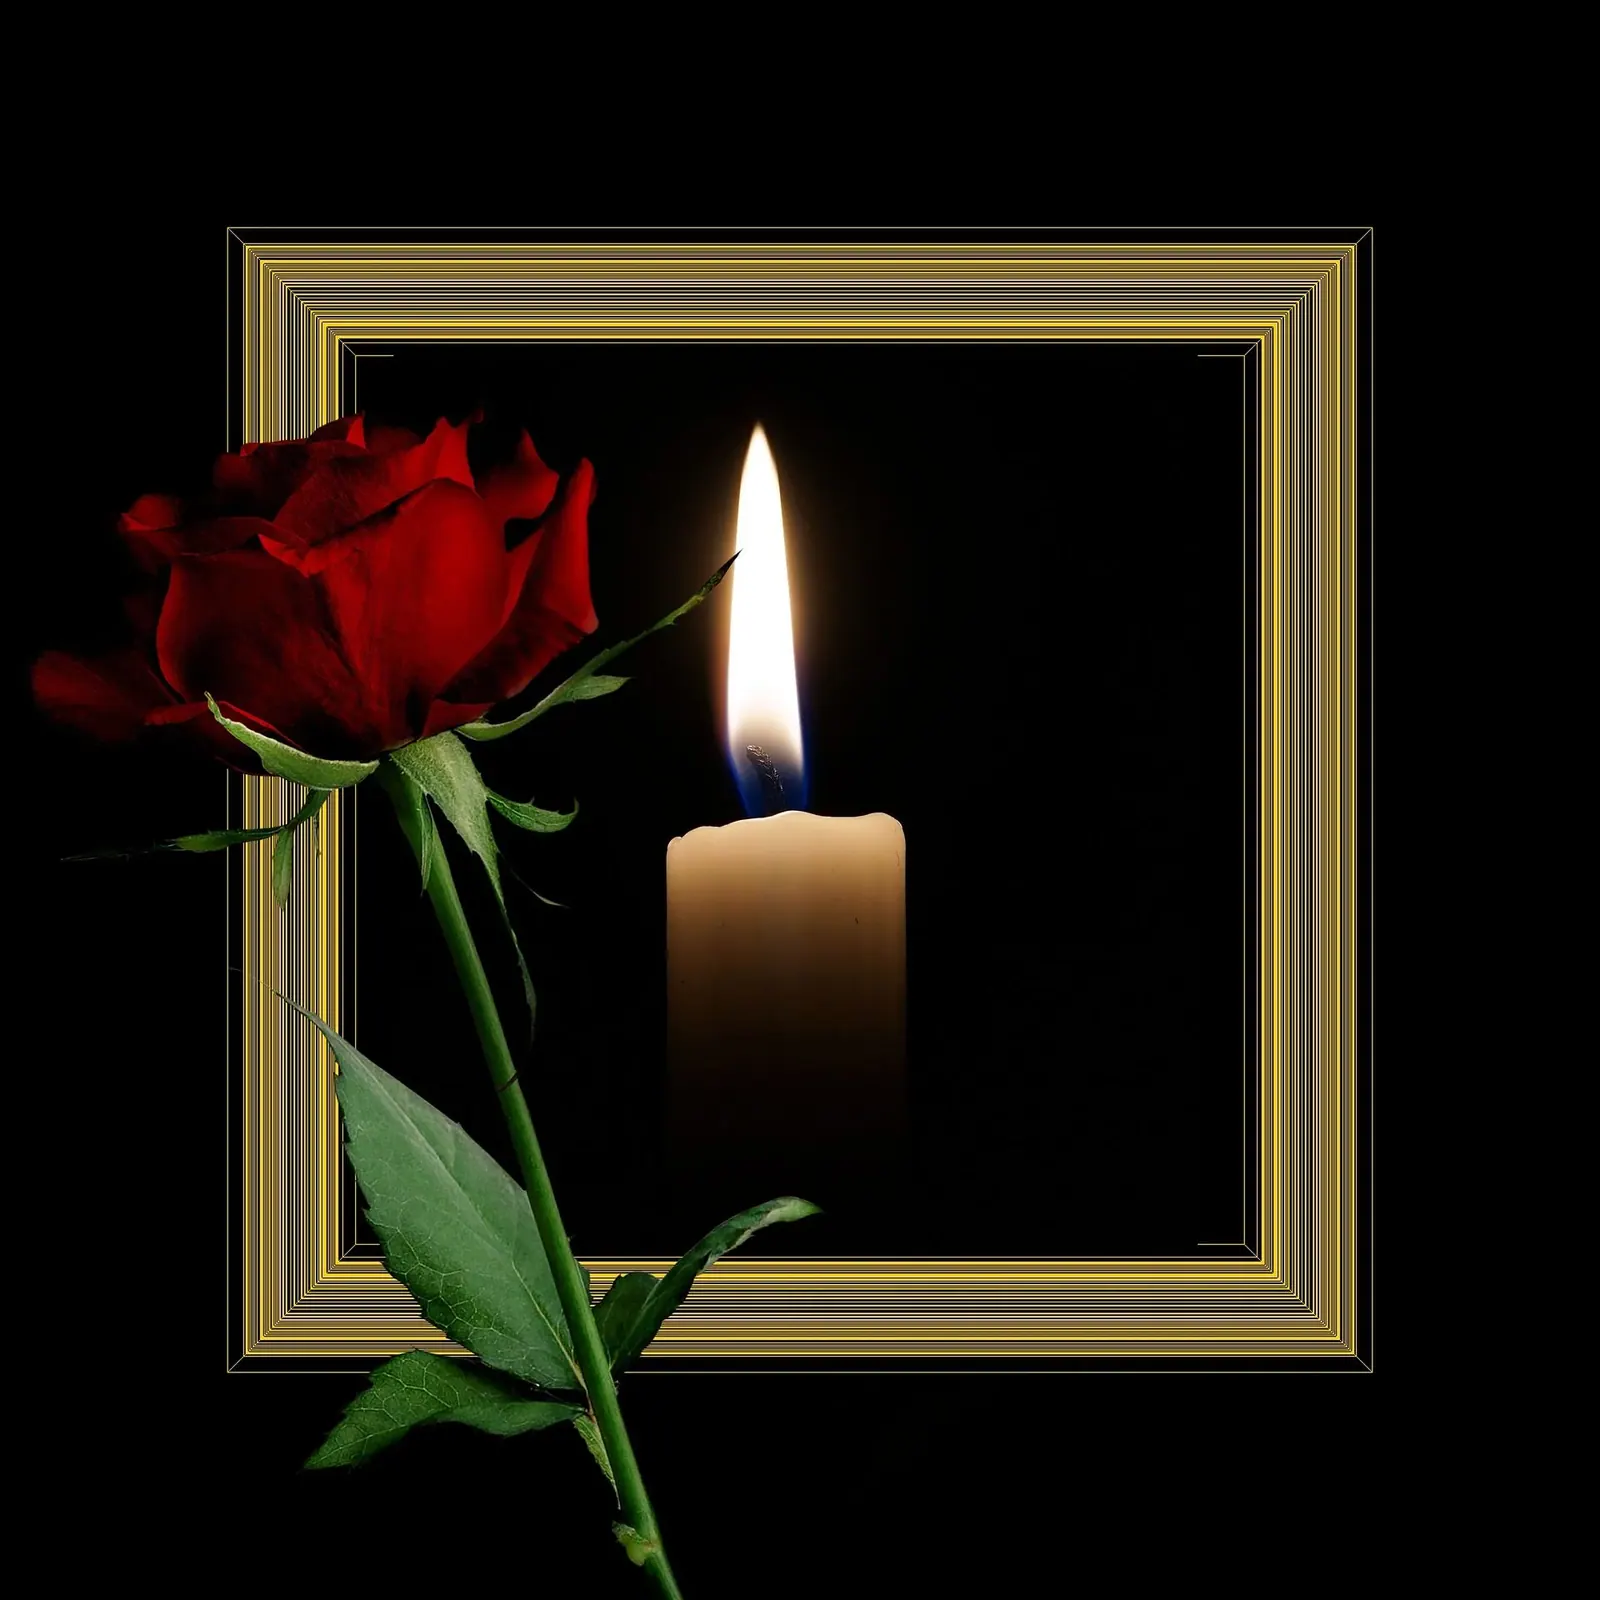
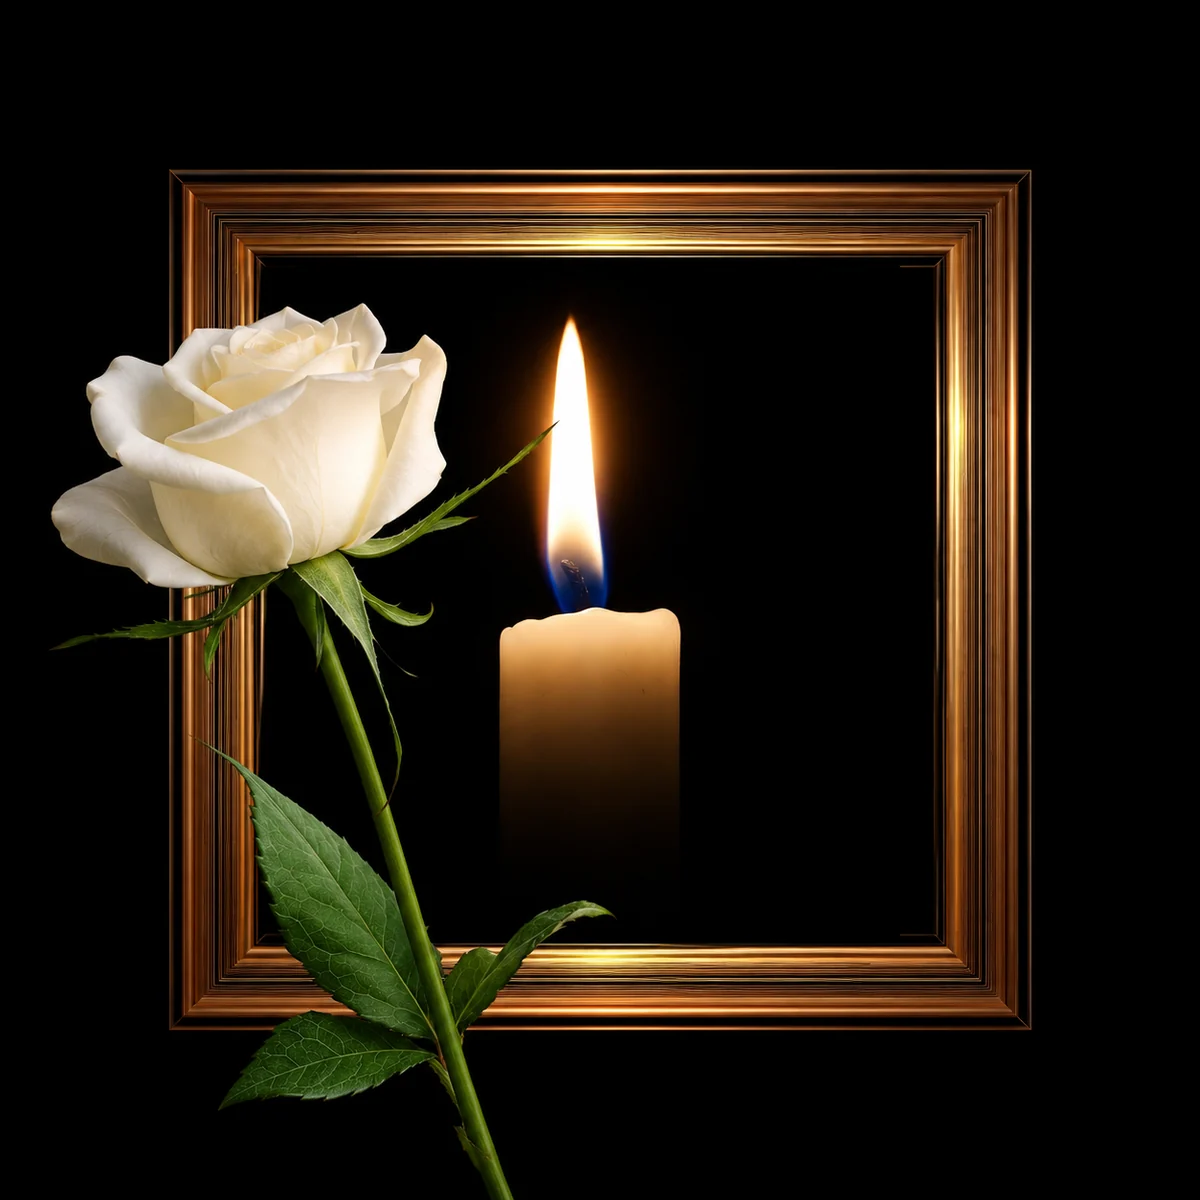
Update Polgari bucsuztatas card image and add copy/image-save protection

Changed region(s): [[0.0, 0.1233, 0.8633, 1.0], [0.4008, 0.2467, 0.5858, 0.6475]]

diff --git a/app.js b/app.js
@@ -457,8 +457,23 @@
         `);
     }
 
+    const isEditable = (t) => t && (t.tagName === "INPUT" || t.tagName === "TEXTAREA");
+
     document.addEventListener("keydown", (e) => {
         if (e.key === "Escape") closeModal();
+        if (!isEditable(e.target) && (e.ctrlKey || e.metaKey)) {
+            if (["c", "x", "u", "s", "a"].includes(e.key.toLowerCase())) e.preventDefault();
+        }
+    });
+
+    ["contextmenu", "copy", "cut"].forEach((evt) => {
+        document.addEventListener(evt, (e) => {
+            if (!isEditable(e.target)) e.preventDefault();
+        });
+    });
+
+    document.addEventListener("dragstart", (e) => {
+        if (e.target && e.target.tagName === "IMG") e.preventDefault();
     });
 
     renderNavbar();

diff --git a/style.css b/style.css
@@ -55,6 +55,14 @@ body {
     overflow-x: hidden;
     -webkit-font-smoothing: antialiased;
     position: relative;
+    -webkit-user-select: none;
+    user-select: none;
+}
+
+input,
+textarea {
+    -webkit-user-select: text;
+    user-select: text;
 }
 
 body::before {
@@ -70,6 +78,9 @@ body::before {
 img {
     max-width: 100%;
     display: block;
+    -webkit-user-drag: none;
+    user-drag: none;
+    -webkit-touch-callout: none;
 }
 
 a {
@@ -609,6 +620,11 @@ a {
     height: 100%;
     object-fit: cover;
     transition: transform 0.35s ease;
+}
+
+.service-img-wrap img[src*="polgari-bucsuztato"] {
+    object-fit: contain;
+    background: #050505;
 }
 
 .service-card:hover .service-img-wrap img {
